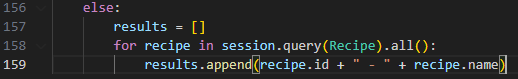
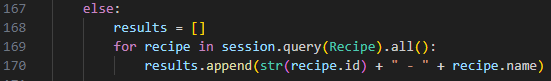
Updated edit_recipe function

diff --git a/Exercise1.7/Main_task/recipe_app.py b/Exercise1.7/Main_task/recipe_app.py
@@ -137,12 +137,12 @@ def search_by_ingredients():
     chosen_ingredient = input("Choose the indexes of the ingredients" + 
                                " you would like to search (separate them with a comma (,)" +
                                  " and a space ( ) ): ").split(", ")
-    print(len(chosen_ingredient))
+    
     for index in chosen_ingredient:
         if not index.isnumeric():
             print("You can only input numbers. Returning to main menu.")
             return
-        elif int(index) > len(chosen_ingredient):
+        elif int(index) > len(all_ingredients):
             print("You can only select index numbers from the list. Returning to main menu.")
             return
     
@@ -162,11 +162,12 @@ def search_by_ingredients():
 
 def edit_recipe():
     if session.query(Recipe).count() == 0:
+        print("There is no recipes in the database. Returning to main menu.")
         return
     else:
         results = []
         for recipe in session.query(Recipe).all():
-            results.append(recipe.id + " - " + recipe.name)
+            results.append(str(recipe.id) + " - " + recipe.name)
         
         for recipe in results:
             print(recipe)
@@ -174,34 +175,36 @@ def edit_recipe():
     chosen_recipe = input("Enter the ID of the recipe: ")
 
     if not chosen_recipe.isnumeric():
-        print("You can only enter numbers.")
+        print("You can only enter numbers. Returning to main menu.")
         return
-    if not results.like("%" + chosen_recipe+ "%"):
-        print("You can only enter numbers from the list.")
+    if not any(chosen_recipe in result for result in results):
+        print("You can only enter numbers from the list. Returning to main menu.")
         return
     
-    recipe_to_edit = session.query(Recipe).filter(Recipe.id.like("%" + chosen_recipe + "%"))
+    recipe_to_edit = session.query(Recipe).filter(Recipe.id.like("%" + chosen_recipe + "%")).one()
 
-    print("1 - Recipe name: " + recipe_to_edit.name + "\n" + 
-          "2 - Cooking time: " + recipe_to_edit.cooking_time +
-          "3 - Ingredients: ")
+    print("\n" + "-"*20 + "\n1 - Recipe name: " + recipe_to_edit.name + "\n" + 
+          "2 - Cooking time: " + str(recipe_to_edit.cooking_time) +
+          "\n3 - Ingredients: ")
     
     for ingredient in recipe_to_edit.ingredients.split(", "):
         print("- " + ingredient) 
+    
+    print("\n" + "-" * 20)
 
     chosen_attribute = input("Enter the index of the recipe information you would like" + 
                              "to update: ")
     if not chosen_attribute.isnumeric():
-        print("You can only enter numbers.")
+        print("You can only enter numbers. Returning to main menu.")
         return
     if int(chosen_attribute) > 3 or int(chosen_attribute) < 1:
-        print("You can only enter numbers from the list.")
+        print("You can only enter numbers from the list. Returning to main menu.")
         return
     
     if chosen_attribute == "1":
         new_name = input("Enter the new recipe name (maximal 50 characters): ")
         if len(new_name) > 50:
-            print("The new name can only be maximal 50 characters long.")
+            print("The new name can only be maximal 50 characters long. Returning to main menu.")
             return
         else:
             session.query(Recipe).filter(Recipe.name == recipe_to_edit.name).update(\
@@ -210,17 +213,17 @@ def edit_recipe():
     elif chosen_attribute == "2":
         new_cooking_time = input("Enter new cooking time in minutes (numbers only): ")
         if not new_cooking_time.isnumeric():
-            print("The new cooking time must be a number.")
+            print("The new cooking time must be a number. Returning to main menu.")
             return
         else:
             session.query(Recipe).filter(Recipe.name == recipe_to_edit.name).update(\
-                {Recipe.cooking_time: new_cooking_time})
-            recipe_to_edit.calculate_difficulty(new_cooking_time, recipe_to_edit.ingredients)
+                {Recipe.cooking_time: int(new_cooking_time)})
+            recipe_to_edit.calculate_difficulty(int(new_cooking_time), recipe_to_edit.ingredients)
     elif chosen_attribute == "3":
         new_ingredients = input("Enter the new recipe ingredients (maximal 255 characters)" + 
                                 "(separate them with comma(,) and space ( )): ")
         if len(new_ingredients) > 255:
-            print("The new name can only be maximal 255 characters long.")
+            print("The new name can only be maximal 255 characters long. Returning to main menu.")
             return
         else:
             session.query(Recipe).filter(Recipe.name == recipe_to_edit.name).update(\
@@ -231,9 +234,10 @@ def edit_recipe():
 
 def delete_recipe():
     if session.query(Recipe).count() == 0:
+        print("There is no recipes in the database. Returning to main menu.")
         return
-    else:
-        session.query(Recipe).all()
+    
+    session.query(Recipe).all()
 
     recipe_to_delete = input("Enter the ID of the recipe you would like to delete (numbers only): ")
 
